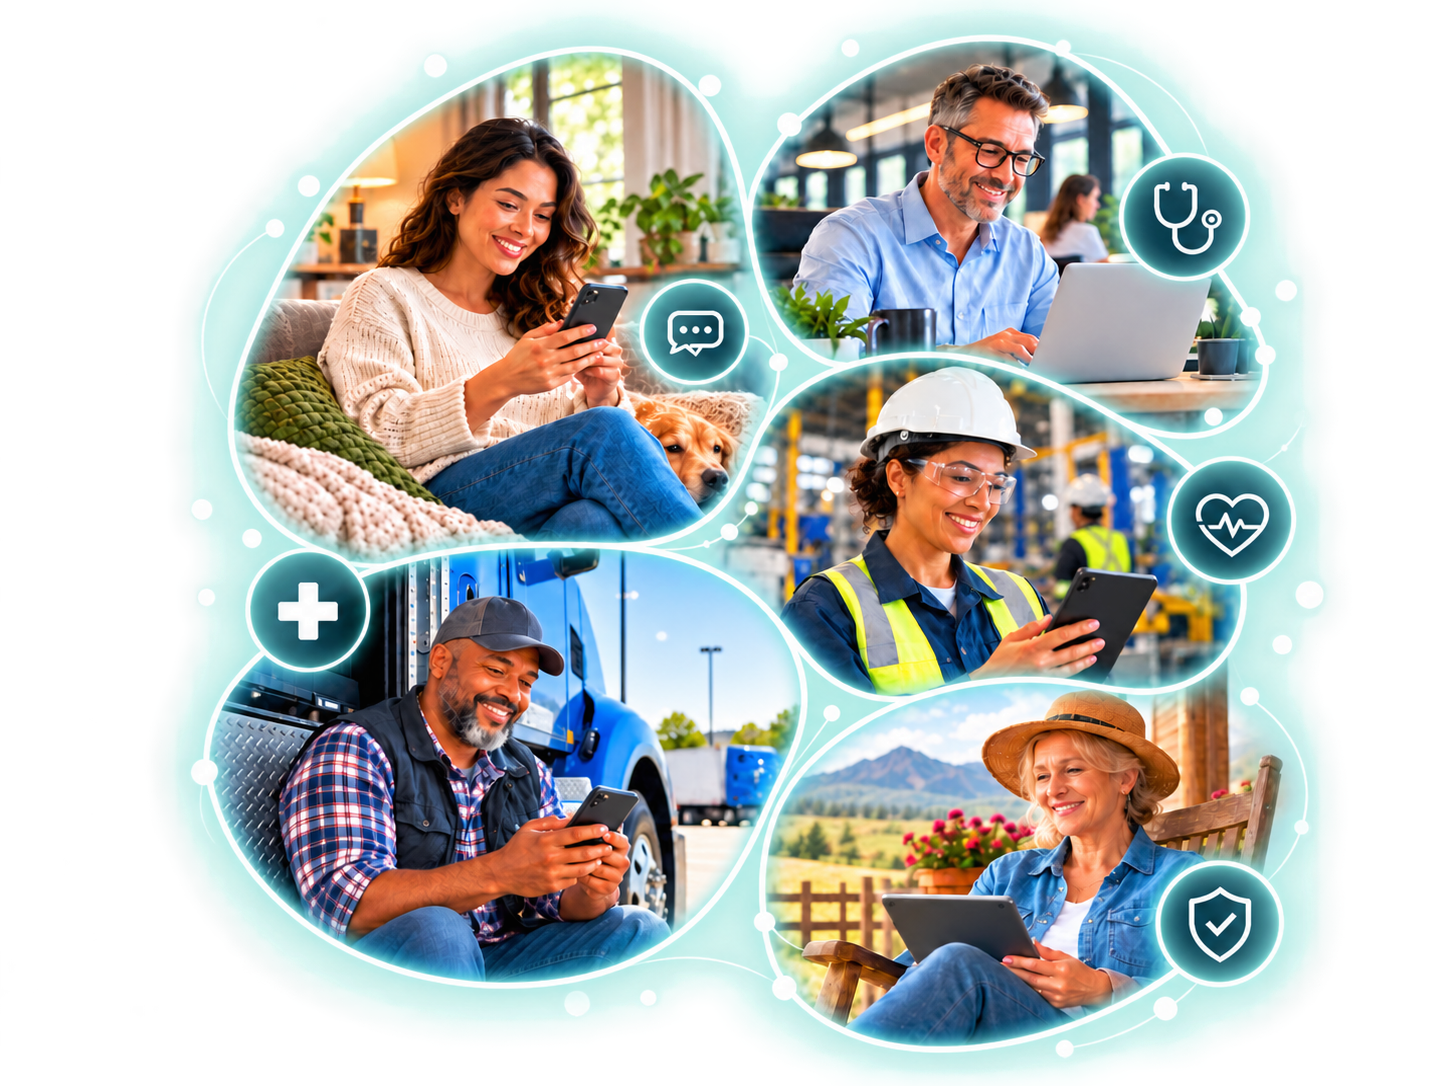
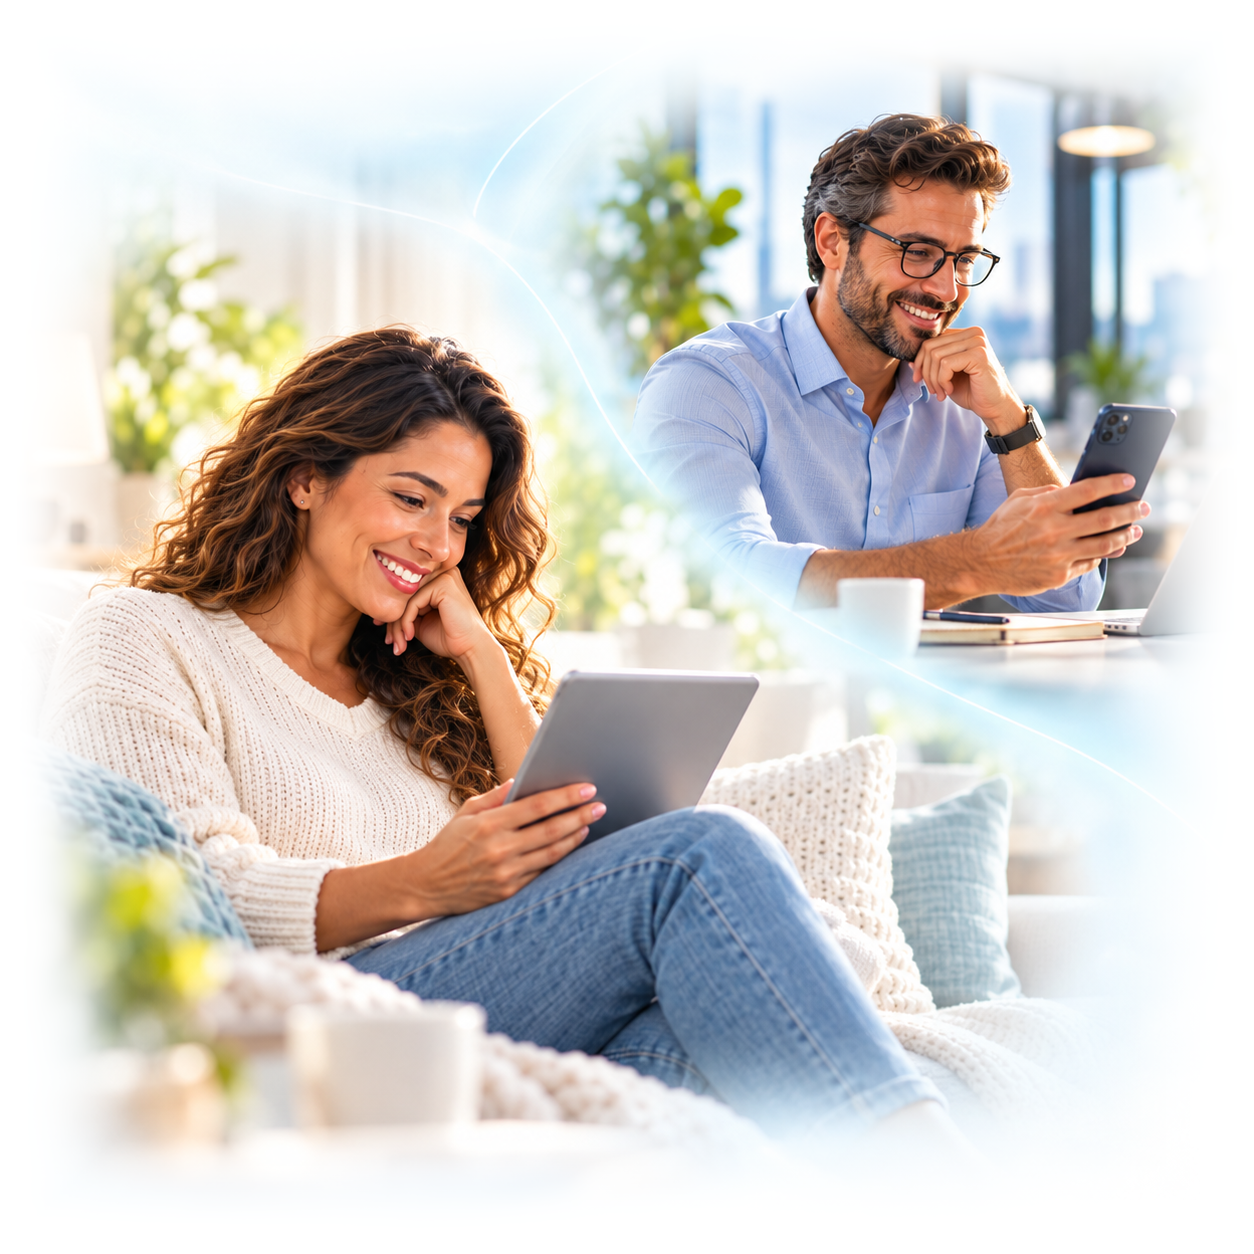
Add files via upload

diff --git a/assets/css/style.css b/assets/css/style.css
@@ -5,9 +5,9 @@
 .site-header{position:sticky;top:0;z-index:80;padding:12px 0;background:rgba(249,252,252,.84);backdrop-filter:blur(18px);border-bottom:1px solid rgba(210,230,234,.72)}.nav-shell{display:flex;align-items:center;gap:26px;min-height:66px}.brand{display:flex;align-items:center;margin-right:auto}.brand img{width:205px;height:auto}.nav-links{display:flex;align-items:center;gap:28px}.nav-links a{font-size:14.5px;font-weight:700;color:#234c63;transition:.2s}.nav-links a:hover{color:var(--teal)}.nav-cta{display:inline-flex;align-items:center;gap:9px;padding:12px 16px;border-radius:999px;background:var(--navy);color:#fff;font-size:13.5px;font-weight:800}.menu-button{display:none;width:46px;height:46px;border:0;border-radius:14px;background:#fff;box-shadow:0 7px 20px rgba(7,58,84,.08);place-items:center}.menu-button span{display:block;width:20px;height:2px;background:var(--navy);margin:3px auto}
 .eyebrow{display:inline-flex;align-items:center;gap:9px;margin-bottom:17px;text-transform:uppercase;font-size:12px;font-weight:850;letter-spacing:.16em;color:var(--navy-2)}.eyebrow i{width:9px;height:9px;border-radius:50%;background:linear-gradient(135deg,var(--teal),var(--teal-2));box-shadow:0 0 0 5px rgba(12,183,198,.09)}.eyebrow-light{color:#d9fbf9}.eyebrow-light i{box-shadow:0 0 0 5px rgba(130,238,225,.11)}
 .btn{display:inline-flex;align-items:center;justify-content:center;gap:10px;min-height:50px;padding:13px 20px;border-radius:15px;font-size:14px;font-weight:850;border:1px solid transparent;transition:transform .2s var(--ease),box-shadow .2s var(--ease),background .2s}.btn:hover{transform:translateY(-2px)}.btn-primary{color:#fff;background:linear-gradient(135deg,#087da0,#0fc1c7);box-shadow:0 16px 32px rgba(8,166,184,.22)}.btn-light{background:#fff;color:var(--navy);box-shadow:0 14px 28px rgba(3,26,43,.12)}.btn-outline{background:#fff;color:var(--navy);border-color:#cce2e7}.link-arrow{font-weight:750;color:#2c5569;font-size:14px}.link-arrow span{color:var(--teal);margin-left:4px}
-.hero{position:relative;min-height:calc(100svh - 90px);display:grid;align-items:center;padding:46px 0 62px;overflow:hidden;background:linear-gradient(180deg,#fbfefe 0%,#f4fbfb 100%)}.hero-aura{position:absolute;border-radius:50%;filter:blur(10px);pointer-events:none}.hero-aura-one{width:560px;height:560px;right:-130px;top:-170px;background:radial-gradient(circle,rgba(56,210,205,.23),rgba(56,210,205,0) 70%)}.hero-aura-two{width:480px;height:480px;left:-180px;bottom:-250px;background:radial-gradient(circle,rgba(8,122,162,.12),transparent 70%)}.hero-grid{position:relative;display:grid;grid-template-columns:minmax(0,.93fr) minmax(0,1.07fr);gap:44px;align-items:center}.hero-copy{max-width:650px;z-index:2}.hero-copy p{font-size:clamp(18px,1.45vw,22px);line-height:1.62;color:#476778;max-width:590px;margin-top:22px}.hero-actions{display:flex;align-items:center;gap:20px;flex-wrap:wrap;margin-top:30px}.hero-actions .btn{min-width:220px}.hero-signature{display:flex;align-items:center;gap:12px;flex-wrap:wrap;margin-top:28px;font-size:13px;font-weight:780;color:#5a7583}.hero-signature i{width:4px;height:4px;border-radius:50%;background:var(--teal)}.hero-visual{position:relative;margin:0;min-height:520px;display:flex;align-items:center;justify-content:center;overflow:visible}.hero-visual img{position:relative;z-index:2;width:min(104%,730px);max-width:none;filter:drop-shadow(0 30px 52px rgba(6,64,91,.14));transform:translateX(1%)}.hero-orbit{position:absolute;border:1px solid rgba(12,183,198,.15);border-radius:50%;z-index:0}.hero-orbit-a{width:470px;height:470px}.hero-orbit-b{width:600px;height:600px;border-style:dashed}.hero-glass-note{position:absolute;z-index:3;right:2%;top:11%;width:min(270px,40%);padding:16px 18px;border-radius:20px;background:rgba(255,255,255,.82);backdrop-filter:blur(14px);border:1px solid rgba(255,255,255,.92);box-shadow:0 18px 40px rgba(5,56,80,.12)}.hero-glass-note strong,.hero-glass-note span{display:block}.hero-glass-note strong{font-size:13.5px;color:var(--navy)}.hero-glass-note span{margin-top:5px;font-size:12.5px;line-height:1.4;color:#68808d}
+.hero{position:relative;min-height:calc(100svh - 90px);display:grid;align-items:center;padding:46px 0 62px;overflow:hidden;background:linear-gradient(180deg,#fbfefe 0%,#f4fbfb 100%)}.hero-aura{position:absolute;border-radius:50%;filter:blur(10px);pointer-events:none}.hero-aura-one{width:560px;height:560px;right:-130px;top:-170px;background:radial-gradient(circle,rgba(56,210,205,.23),rgba(56,210,205,0) 70%)}.hero-aura-two{width:480px;height:480px;left:-180px;bottom:-250px;background:radial-gradient(circle,rgba(8,122,162,.12),transparent 70%)}.hero-grid{position:relative;display:grid;grid-template-columns:minmax(0,.93fr) minmax(0,1.07fr);gap:44px;align-items:center}.hero-copy{max-width:650px;z-index:2}.hero-copy p{font-size:clamp(18px,1.45vw,22px);line-height:1.62;color:#476778;max-width:590px;margin-top:22px}.hero-actions{display:flex;align-items:center;gap:20px;flex-wrap:wrap;margin-top:30px}.hero-actions .btn{min-width:220px}.hero-signature{display:flex;align-items:center;gap:12px;flex-wrap:wrap;margin-top:28px;font-size:13px;font-weight:780;color:#5a7583}.hero-signature i{width:4px;height:4px;border-radius:50%;background:var(--teal)}.hero-visual{position:relative;margin:0;min-height:520px;display:flex;align-items:center;justify-content:center;overflow:visible}.hero-visual img{position:relative;z-index:2;width:min(104%,730px);max-width:none;filter:drop-shadow(0 22px 38px rgba(6,64,91,.08));transform:translateX(1%)}.hero-orbit{position:absolute;border:1px solid rgba(12,183,198,.15);border-radius:50%;z-index:0}.hero-orbit-a{width:470px;height:470px}.hero-orbit-b{width:600px;height:600px;border-style:dashed}.hero-glass-note{position:absolute;z-index:3;right:2%;top:11%;width:min(270px,40%);padding:16px 18px;border-radius:20px;background:rgba(255,255,255,.82);backdrop-filter:blur(14px);border:1px solid rgba(255,255,255,.92);box-shadow:0 18px 40px rgba(5,56,80,.12)}.hero-glass-note strong,.hero-glass-note span{display:block}.hero-glass-note strong{font-size:13.5px;color:var(--navy)}.hero-glass-note span{margin-top:5px;font-size:12.5px;line-height:1.4;color:#68808d}
 .section{padding:106px 0}.section-lead{font-size:18px;line-height:1.7;color:#4f6d7c}
-.telemed{background:#fff;padding-top:28px;padding-bottom:96px}.telemed-grid{display:grid;grid-template-columns:minmax(0,1fr) minmax(0,.96fr);gap:72px;align-items:start}.telemed-copy h2{max-width:620px}.telemed-copy>.section-lead{max-width:660px;margin-top:20px}.telemed-benefits{display:grid;grid-template-columns:1fr 1fr;gap:12px;margin-top:28px}.telemed-benefits article{display:grid;grid-template-columns:42px 1fr;gap:12px;padding:17px 18px;border:1px solid #e0eef0;border-radius:19px;background:linear-gradient(180deg,#fff,#f9fcfc);box-shadow:0 9px 30px rgba(5,63,88,.045)}.benefit-number{display:grid;place-items:center;width:38px;height:38px;border-radius:12px;background:#e7f8f7;color:#087b8d;font-size:11px;font-weight:900}.telemed-benefits strong{display:block;font-size:15px;color:var(--navy)}.telemed-benefits p{margin-top:4px;font-size:13.5px;line-height:1.42;color:#617c89}.statement{position:relative;margin-top:22px;padding:17px 20px 17px 28px;border-radius:18px;background:linear-gradient(135deg,#ecf9f8,#f7fcfc);font-size:15px;line-height:1.55;font-weight:750;color:#214c61}.statement>span{position:absolute;left:10px;top:4px;font-size:35px;color:rgba(12,183,198,.32)}.telemed-visual{display:flex;justify-content:flex-end;padding-top:4px}.image-shell{position:relative;width:min(100%,600px);isolation:isolate}.image-shell:before{content:"";position:absolute;inset:12% -7% -6% 10%;border-radius:45% 55% 56% 44% / 44% 43% 57% 56%;background:linear-gradient(135deg,rgba(9,179,197,.18),rgba(82,223,207,.36));filter:blur(16px);z-index:-1}.image-shell img{width:100%;height:auto}.image-shine{position:absolute;inset:8% 5% auto auto;width:150px;height:150px;border-radius:50%;background:radial-gradient(circle,rgba(255,255,255,.8),transparent 70%);filter:blur(6px)}.image-caption{position:absolute;right:1%;bottom:7%;display:grid;grid-template-columns:auto 1fr;grid-template-rows:auto auto;gap:0 9px;min-width:220px;padding:13px 15px;border-radius:18px;background:rgba(255,255,255,.88);backdrop-filter:blur(14px);box-shadow:0 18px 40px rgba(4,52,77,.11)}.pulse-dot{grid-row:1/3;align-self:center;width:10px;height:10px;border-radius:50%;background:#14c2b7;box-shadow:0 0 0 7px rgba(20,194,183,.12)}.image-caption strong{font-size:13px}.image-caption small{font-size:11.5px;color:#67808d;margin-top:2px}
+.telemed{background:#fff;padding-top:28px;padding-bottom:96px}.telemed-grid{display:grid;grid-template-columns:minmax(0,1fr) minmax(0,.96fr);gap:72px;align-items:start}.telemed-copy h2{max-width:620px}.telemed-copy>.section-lead{max-width:660px;margin-top:20px}.telemed-benefits{display:grid;grid-template-columns:1fr 1fr;gap:12px;margin-top:28px}.telemed-benefits article{display:grid;grid-template-columns:42px 1fr;gap:12px;padding:17px 18px;border:1px solid #e0eef0;border-radius:19px;background:linear-gradient(180deg,#fff,#f9fcfc);box-shadow:0 9px 30px rgba(5,63,88,.045)}.benefit-number{display:grid;place-items:center;width:38px;height:38px;border-radius:12px;background:#e7f8f7;color:#087b8d;font-size:11px;font-weight:900}.telemed-benefits strong{display:block;font-size:15px;color:var(--navy)}.telemed-benefits p{margin-top:4px;font-size:13.5px;line-height:1.42;color:#617c89}.statement{position:relative;margin-top:22px;padding:17px 20px 17px 28px;border-radius:18px;background:linear-gradient(135deg,#ecf9f8,#f7fcfc);font-size:15px;line-height:1.55;font-weight:750;color:#214c61}.statement>span{position:absolute;left:10px;top:4px;font-size:35px;color:rgba(12,183,198,.32)}.telemed-visual{display:flex;justify-content:flex-end;padding-top:4px}.image-shell{position:relative;width:min(108%,690px);isolation:isolate}.image-shell:before{display:none}.image-shell img{width:100%;height:auto}.image-shine{display:none}.image-caption{position:absolute;right:1%;bottom:7%;display:grid;grid-template-columns:auto 1fr;grid-template-rows:auto auto;gap:0 9px;min-width:220px;padding:13px 15px;border-radius:18px;background:rgba(255,255,255,.88);backdrop-filter:blur(14px);box-shadow:0 18px 40px rgba(4,52,77,.11)}.pulse-dot{grid-row:1/3;align-self:center;width:10px;height:10px;border-radius:50%;background:#14c2b7;box-shadow:0 0 0 7px rgba(20,194,183,.12)}.image-caption strong{font-size:13px}.image-caption small{font-size:11.5px;color:#67808d;margin-top:2px}
 
 .telemed-evidence{display:grid;grid-template-columns:repeat(2,minmax(0,1fr));gap:14px;margin-top:24px}.telemed-proof-card{position:relative;overflow:hidden;padding:19px 20px;border-radius:22px;border:1px solid #dcecef;background:linear-gradient(135deg,#fff,#f2fbfb 60%,#edf8fa 100%);box-shadow:0 16px 34px rgba(6,55,80,.06)}.telemed-proof-card:after{content:"";position:absolute;right:-34px;top:-32px;width:120px;height:120px;border-radius:50%;background:radial-gradient(circle,rgba(61,215,203,.16),transparent 68%)}.telemed-proof-kicker{position:relative;z-index:1;display:inline-flex;padding:7px 10px;border-radius:999px;background:#fff;border:1px solid #d9ecee;color:#087f90;font-size:10.5px;font-weight:900;letter-spacing:.1em;text-transform:uppercase}.telemed-proof-card strong{position:relative;z-index:1;display:block;margin-top:14px;font-size:30px;line-height:1;color:var(--navy)}.telemed-proof-card p{position:relative;z-index:1;margin-top:8px;font-size:13.5px;line-height:1.52;color:#5e7887;max-width:360px}
 .micro-evidence{display:grid;grid-template-columns:repeat(3,minmax(0,1fr));gap:14px;margin:18px 0 20px}.micro-evidence article{position:relative;overflow:hidden;padding:20px 18px;border-radius:22px;background:linear-gradient(180deg,#062b46,#0a4866 62%,#0a5970 100%);border:1px solid rgba(85,220,212,.16);box-shadow:0 18px 34px rgba(3,33,50,.14)}.micro-evidence article:after{content:"";position:absolute;inset:auto -22px -32px auto;width:110px;height:110px;border-radius:50%;background:radial-gradient(circle,rgba(98,241,226,.18),transparent 70%)}.micro-evidence strong{position:relative;z-index:1;display:block;font-size:42px;line-height:.9;color:#62f0df;letter-spacing:-.05em}.micro-evidence span{position:relative;z-index:1;display:block;margin-top:10px;font-size:13.5px;line-height:1.45;color:#e1f4f7;font-weight:650}

diff --git a/index.html b/index.html
@@ -9,7 +9,7 @@
   <meta name="robots" content="index,follow,max-image-preview:large">
   <link rel="preload" as="font" type="font/woff2" href="assets/fonts/onest-latin.woff2" crossorigin>
   <link rel="preload" as="font" type="font/woff2" href="assets/fonts/montserrat-latin.woff2" crossorigin>
-  <link rel="preload" as="image" href="assets/img/hero-linksalute.png" fetchpriority="high">
+  <link rel="preload" as="image" href="assets/img/hero-linksalute-familia.png" fetchpriority="high">
   <link rel="stylesheet" href="assets/css/style.css">
 </head>
 <body>
@@ -34,7 +34,7 @@
         <div class="hero-copy reveal">
           <span class="eyebrow"><i></i> Saúde digital com presença real</span>
           <h1 id="hero-title">Saúde e benefícios em <em>um único aplicativo.</em></h1>
-          <p>Um ecossistema digital criado para aproximar cuidado, conveniência e vantagens na sua rotina.</p>
+          <p>Consulta online, conveniência e benefícios conectados à sua rotina.</p>
           <div class="hero-actions">
             <a class="btn btn-primary" href="#telemedicina">Conheça a LinkSalute <span>↗</span></a>
           </div>
@@ -42,8 +42,8 @@
         </div>
         <figure class="hero-visual reveal">
           <div class="hero-orbit hero-orbit-a"></div><div class="hero-orbit hero-orbit-b"></div>
-          <img src="assets/img/hero-linksalute.png" alt="Ecossistema LinkSalute com aplicativo, cuidado em saúde e benefícios">
-          <figcaption class="hero-glass-note"><strong>Um ecossistema. Uma experiência.</strong><span>Saúde e vantagens conectadas à sua rotina.</span></figcaption>
+          <img src="assets/img/hero-linksalute-familia.png" alt="Mãe em consulta online enquanto as crianças brincam com o cachorro no gramado">
+          <figcaption class="hero-glass-note"><strong>Um ecossistema. Uma experiência.</strong><span>Consulta online, conveniência e benefícios em um só lugar.</span></figcaption>
         </figure>
       </div>
     </section>
@@ -53,17 +53,17 @@
         <div class="telemed-copy reveal">
           <span class="eyebrow"><i></i> Telemedicina</span>
           <h2>Cuidado onde <em>você estiver.</em></h2>
-          <p class="section-lead">A LinkSalute aproxima você do acesso à saúde por meio de uma experiência digital simples e conveniente. Você conta com atendimento humanizado de médicos e profissionais de saúde altamente qualificados.</p>
+          <p class="section-lead">Atendimento qualificado, sem deslocamento e com mais comodidade para a sua rotina.</p>
           <div class="telemed-evidence" aria-label="Destaques da telemedicina LinkSalute">
             <article class="telemed-proof-card">
               <span class="telemed-proof-kicker">Satisfação no atendimento</span>
               <strong>92%</strong>
-              <p>de satisfação em uma experiência que combina acolhimento, agilidade e confiança.</p>
+              <p>de satisfação em uma jornada acolhedora e confiável.</p>
             </article>
             <article class="telemed-proof-card">
               <span class="telemed-proof-kicker">Alta resolutividade</span>
               <strong>Até 90%</strong>
-              <p>das demandas de pronto atendimento podem ser resolvidas com efetividade pela telemedicina, tornando o cuidado mais simples, rápido e seguro.</p>
+              <p>das demandas de pronto atendimento podem ser resolvidas pela telemedicina.</p>
             </article>
           </div>
           <div class="telemed-benefits">
@@ -72,13 +72,13 @@
             <article><span class="benefit-number">03</span><div><strong>Mais proteção</strong><p>Reduza sua exposição a ambientes com alta circulação de doenças.</p></div></article>
             <article><span class="benefit-number">04</span><div><strong>Mais comodidade</strong><p>Integre o atendimento à sua rotina.</p></div></article>
           </div>
-          <p class="statement"><span>“</span>Quando o cuidado vem até você, o acesso à saúde se torna mais simples, rápido e seguro.</p>
+          <p class="statement"><span>“</span>Quando o cuidado chega até você, tudo fica mais simples.</p>
         </div>
         <div class="telemed-visual reveal">
           <div class="image-shell">
             <div class="image-shine"></div>
-            <img src="assets/img/Conex_Saude.png" alt="Telemedicina LinkSalute em diferentes contextos da sua rotina">
-            <div class="image-caption"><span class="pulse-dot"></span><strong>Conexão com o cuidado</strong><small>onde você estiver</small></div>
+            <img src="assets/img/Conex_Saude.png" alt="Dois contextos de telemedicina com comodidade na rotina">
+            <div class="image-caption"><span class="pulse-dot"></span><strong>Conexão com o cuidado</strong><small>onde estiver</small></div>
           </div>
         </div>
       </div>
@@ -90,15 +90,15 @@
         <div class="benefits-copy reveal">
           <span class="eyebrow eyebrow-light"><i></i> Ecossistema de benefícios</span>
           <h2>Cuidado quando necessário. <em>Benefícios no seu dia a dia.</em></h2>
-          <p class="section-lead">A LinkSalute continua fazendo parte da sua rotina mesmo quando você não precisa de atendimento médico.</p>
+          <p class="section-lead">Mesmo sem consulta, a LinkSalute continua gerando valor para você.</p>
           <blockquote>Um aplicativo que continua entregando valor mesmo sem a necessidade de atendimento médico.</blockquote>
         </div>
         <div class="benefits-stage reveal">
           <figure class="benefits-phone"><img src="assets/img/app-beneficios.png" alt="Aplicativo LinkSalute com benefícios disponíveis na sua rotina"></figure>
-          <article class="benefit-float bf-one"><span class="mini-icon">↺</span><div><strong>Cashback</strong><p>Vantagens que retornam valor para a sua rotina.</p></div></article>
-          <article class="benefit-float bf-two"><span class="mini-icon">%</span><div><strong>Descontos</strong><p>Economia em diferentes momentos do seu dia.</p></div></article>
-          <article class="benefit-float bf-three"><span class="mini-icon">◇</span><div><strong>Vale-presentes</strong><p>Mais possibilidades dentro do mesmo ecossistema.</p></div></article>
-          <article class="benefit-float bf-four"><span class="mini-icon">▶</span><div><strong>Cinema</strong><p>Experiências e conveniência além do cuidado em saúde.</p></div></article>
+          <article class="benefit-float bf-one"><span class="mini-icon">↺</span><div><strong>Cashback</strong><p>Valor de volta para a sua rotina.</p></div></article>
+          <article class="benefit-float bf-two"><span class="mini-icon">%</span><div><strong>Descontos</strong><p>Economia em vários momentos do dia.</p></div></article>
+          <article class="benefit-float bf-three"><span class="mini-icon">◇</span><div><strong>Vale-presentes</strong><p>Mais possibilidades no mesmo ecossistema.</p></div></article>
+          <article class="benefit-float bf-four"><span class="mini-icon">▶</span><div><strong>Cinema</strong><p>Experiências e conveniência além da consulta.</p></div></article>
         </div>
       </div>
     </section>
@@ -107,13 +107,13 @@
       <div class="container">
         <div class="section-intro reveal">
           <div><span class="eyebrow"><i></i> Para quem é a LinkSalute</span><h2>Encontre a LinkSalute <em>no seu contexto.</em></h2></div>
-          <p>Veja como a LinkSalute pode gerar valor para sua empresa, sua entidade ou sua base — com mais acesso, conveniência e percepção de cuidado.</p>
+          <p>Veja como a LinkSalute gera valor para sua empresa, sua entidade ou sua base.</p>
         </div>
 
         <div class="audience-gallery reveal">
           <button class="audience-card audience-b2b" data-audience="b2b" type="button" aria-label="Saiba mais para Clientes B2B">
             <span class="audience-overlay"></span><span class="audience-category">Clientes B2B</span>
-            <span class="audience-card-copy"><strong>Fortaleça o pacote de benefícios da sua empresa.</strong><small>Ofereça aos seus colaboradores um cuidado mais acessível, conveniente e de alto valor percebido, com reflexos positivos na produtividade e no clima organizacional.</small><span class="audience-card-tags"><span>Produtividade</span><span>Clima organizacional</span><span>Valor percebido</span></span><b>Saiba mais <i>↗</i></b></span>
+            <span class="audience-card-copy"><strong>Fortaleça o pacote de benefícios da sua empresa.</strong><small>Leve aos seus colaboradores mais cuidado, conveniência e valor percebido, com reflexos na produtividade e no clima organizacional.</small><span class="audience-card-tags"><span>Produtividade</span><span>Clima organizacional</span><span>Valor percebido</span></span><b>Saiba mais <i>↗</i></b></span>
           </button>
           <button class="audience-card audience-conselhos" data-audience="conselhos" type="button" aria-label="Saiba mais para Conselhos Profissionais">
             <span class="audience-overlay"></span><span class="audience-category">Conselhos Profissionais</span>
@@ -121,11 +121,11 @@
           </button>
           <button class="audience-card audience-sindicatos" data-audience="sindicatos" type="button" aria-label="Saiba mais para Sindicatos">
             <span class="audience-overlay"></span><span class="audience-category">Sindicatos</span>
-            <span class="audience-card-copy"><strong>Leve um benefício concreto para a sua base.</strong><small>Reduza barreiras de acesso e reforce o valor percebido da sua atuação junto aos seus representados.</small><span class="audience-card-tags"><span>Acesso simples</span><span>Entrega concreta</span></span><b>Saiba mais <i>↗</i></b></span>
+            <span class="audience-card-copy"><strong>Leve um benefício concreto para a sua base.</strong><small>Entregue um benefício simples de comunicar e relevante para a sua base.</small><span class="audience-card-tags"><span>Acesso simples</span><span>Entrega concreta</span></span><b>Saiba mais <i>↗</i></b></span>
           </button>
           <button class="audience-card audience-associacoes" data-audience="associacoes" type="button" aria-label="Saiba mais para Associações">
             <span class="audience-overlay"></span><span class="audience-category">Associações</span>
-            <span class="audience-card-copy"><strong>Torne sua associação mais atraente para seus associados.</strong><small>Combine cuidado, conveniência e vantagens em uma experiência que seus associados reconhecem quando precisam.</small><span class="audience-card-tags"><span>Mais atratividade</span><span>Uso no dia a dia</span></span><b>Saiba mais <i>↗</i></b></span>
+            <span class="audience-card-copy"><strong>Torne sua associação mais atraente para seus associados.</strong><small>Una cuidado, conveniência e vantagens em uma experiência útil e recorrente para seus associados.</small><span class="audience-card-tags"><span>Mais atratividade</span><span>Uso no dia a dia</span></span><b>Saiba mais <i>↗</i></b></span>
           </button>
         </div>
       </div>
